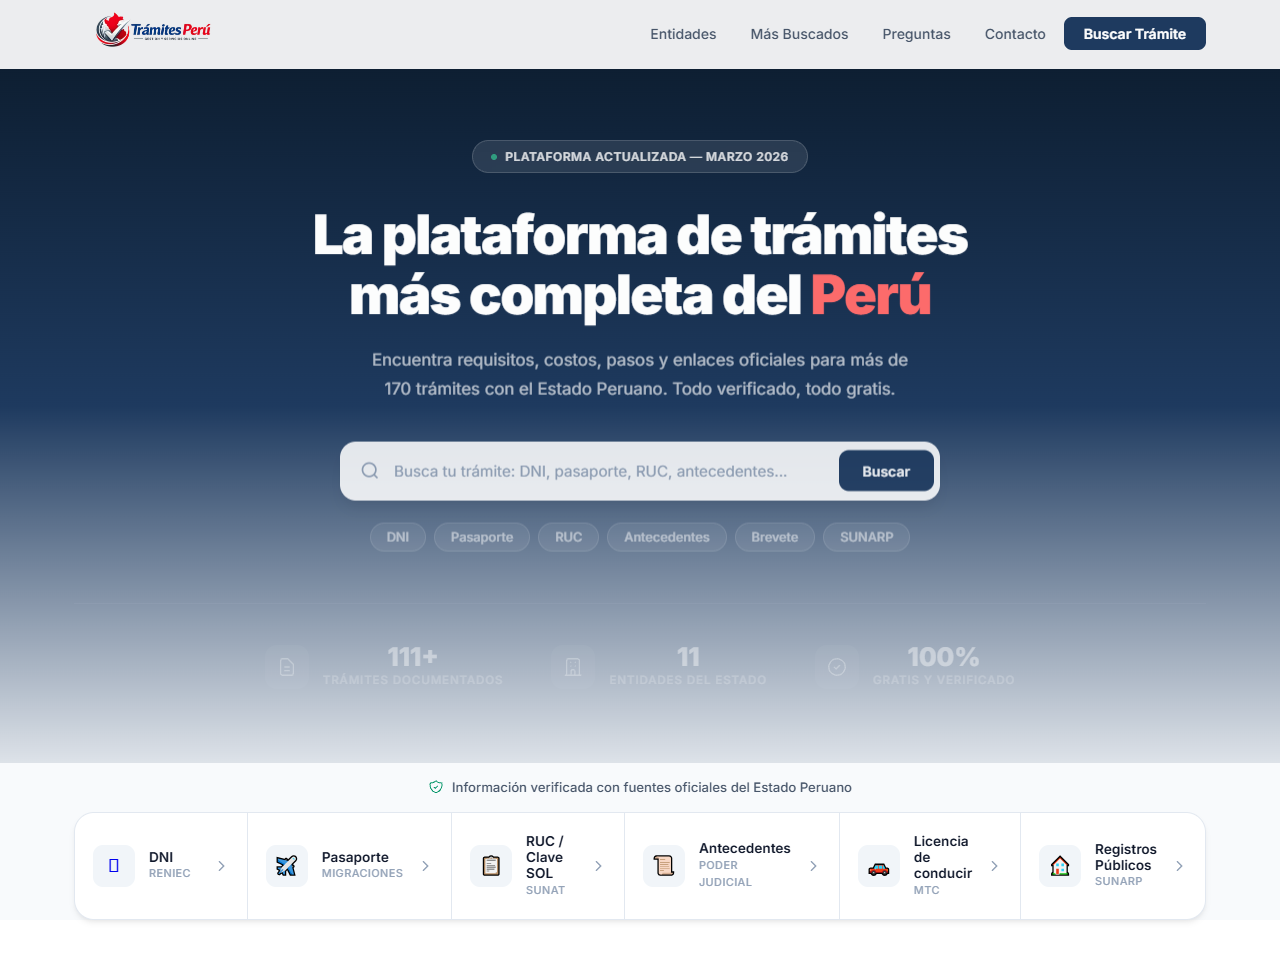
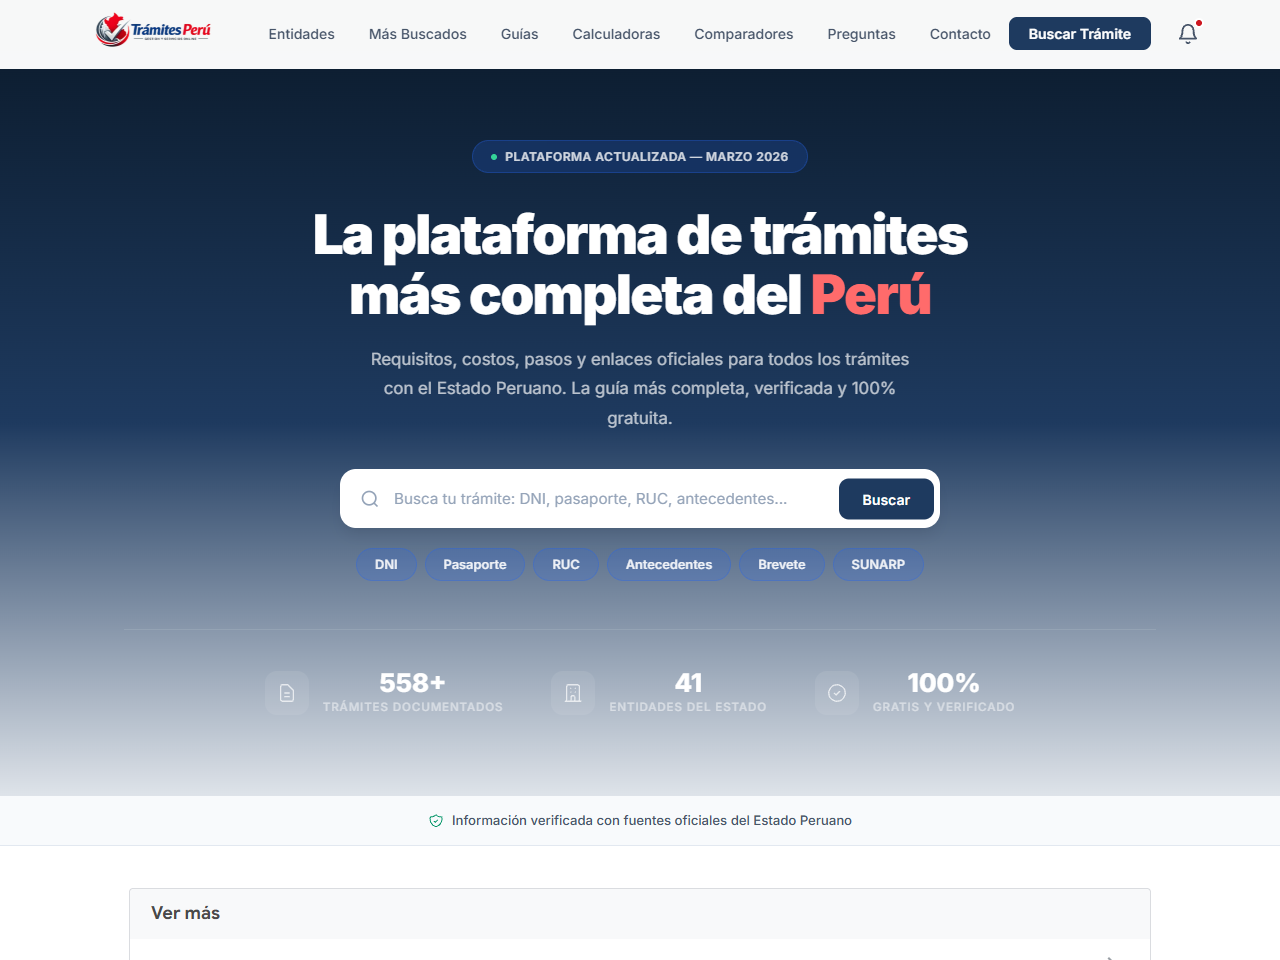
fix: update Tramites Peru stats (558+ tramites, 41 entities)

diff --git a/index.html b/index.html
@@ -701,7 +701,7 @@
                         <div class="project-category">Portal Informativo / Gobierno</div>
                         <h3 class="project-title">Trámites Perú</h3>
                         <p class="project-description">
-                            La plataforma de trámites más completa del Perú. Guía independiente con 170+ trámites gubernamentales de 18 entidades (RENIEC, SUNAT, SUNARP, Migraciones, MTC, EsSalud). Buscador de trámites, costos actualizados, indicadores virtual/presencial y enlaces directos a plataformas oficiales.
+                            La plataforma de trámites más completa del Perú. Guía independiente con 558+ trámites gubernamentales de 41 entidades (RENIEC, SUNAT, SUNARP, Migraciones, MTC, EsSalud). Buscador de trámites, costos actualizados, indicadores virtual/presencial y enlaces directos a plataformas oficiales.
                         </p>
                         <div class="project-tags">
                             <span class="project-tag">HTML5</span>
